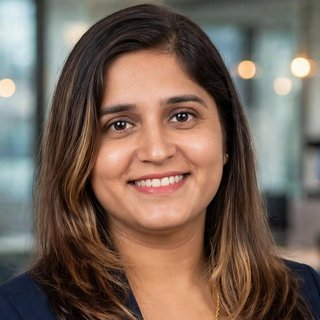
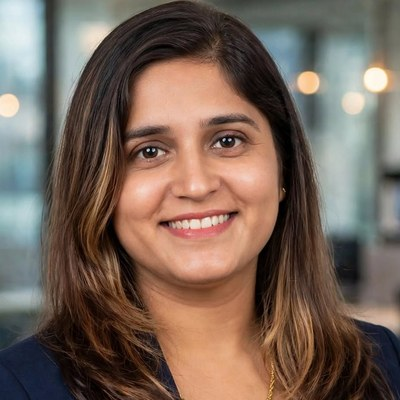
New owner photo; owner card moved to the top of the page
Claude-Session: https://claude.ai/code/session_01Kckg8nz4QzPxmztC6mHUwr

diff --git a/index.html b/index.html
@@ -100,6 +100,8 @@ details.why ol{margin:8px 0 0 18px;font-size:13px;line-height:1.55;color:#cfc9ea
 .im-plat{display:inline-block;background:var(--card2);border:1px solid var(--line);border-radius:999px;padding:3px 10px;font-size:12px;color:var(--mut)}
 .owner{display:flex;align-items:center;gap:16px;max-width:980px;margin:16px auto 0}
 .owner img{width:96px;height:96px;border-radius:50%;object-fit:cover;border:2px solid var(--gold);flex-shrink:0}
+.owner-top{width:fit-content;max-width:calc(100% - 24px);margin:14px auto 4px;padding:12px 22px 12px 12px;text-align:left}
+.owner-top img{width:72px;height:72px}
 .owner .sub{text-transform:uppercase;letter-spacing:.6px;font-size:11px}.oname{font-family:Cinzel,"Noto Sans Devanagari",serif;font-size:22px;color:var(--gold2)}
 .fgrid{display:grid;grid-template-columns:repeat(auto-fill,minmax(140px,1fr));gap:8px}
 .fcard{background:var(--card2);border:1px solid var(--line);border-radius:12px;padding:10px}
@@ -133,6 +135,10 @@ details.why ol{margin:8px 0 0 18px;font-size:13px;line-height:1.55;color:#cfc9ea
   <div class="printonly">Krishan Astrologer · krishanastrologer.netlify.app</div>
   <div class="logo" data-i="logo"></div>
   <div class="tag" data-i="tagline"></div>
+  <section class="card owner owner-top">
+  <img src="icons/owner.jpg?v=2" alt="Pallavi Gupta" width="96" height="96">
+  <div><div class="sub" data-i="ownerTitle"></div><div class="oname" data-i="ownerName"></div><div class="tag" style="margin:2px 0 0" data-i="ownerRole"></div></div>
+</section>
   <nav class="nav"><button data-view="home" data-i="navHome"></button><button data-view="ask" data-i="navAsk"></button><button data-view="future" data-i="navFuture"></button><button data-view="match" data-i="navMatch"></button><button data-view="daily" data-i="navDaily"></button><button data-view="dosh" data-i="navDosh"></button></nav>
 </header>
 <main>
@@ -239,10 +245,7 @@ details.why ol{margin:8px 0 0 18px;font-size:13px;line-height:1.55;color:#cfc9ea
 <section class="card"><h2 data-i="chooseRashi"></h2><p class="tag" style="text-align:left;margin:0 0 12px" data-i="rashiHint"></p><div class="rgrid" id="rgrid"></div><div class="reading" id="rashifal"></div></section>
 </div>
 
-<section class="card owner">
-  <img src="icons/owner.jpg" alt="Pallavi Gupta" width="96" height="96">
-  <div><div class="sub" data-i="ownerTitle"></div><div class="oname" data-i="ownerName"></div><div class="tag" style="margin:2px 0 0" data-i="ownerRole"></div></div>
-</section>
+
 <div class="modal hidden" id="installModal"><div class="im-body"></div></div>
 <p class="note"><span data-i="disclaimer"></span><br><a href="privacy.html" style="color:#a59fc7">Privacy Policy / गोपनीयता नीति</a> · <a href="terms.html" style="color:#a59fc7">Terms / नियम व शर्तें</a></p>
 </main>

diff --git a/sw.js b/sw.js
@@ -1,5 +1,5 @@
-const CACHE="krishan-v22";
-const FILES=["./","./index.html","./privacy.html","./terms.html","./manifest.webmanifest","./icons/icon-192.png","./icons/icon-512.png","./icons/apple-touch-icon.png","./icons/owner.jpg",
+const CACHE="krishan-v23";
+const FILES=["./","./index.html","./privacy.html","./terms.html","./manifest.webmanifest","./icons/icon-192.png","./icons/icon-512.png","./icons/apple-touch-icon.png","./icons/owner.jpg?v=2",
   "./js/kb.js","./js/engine.js","./js/install.js","./js/forecast.js","./js/extras.js","./js/vedic.js","./js/calendar.js","./js/muhurat.js","./js/cities.js","./data/books.json","./data/bphs.json","./data/phaladeepika.json"];
 self.addEventListener("install",e=>{e.waitUntil(caches.open(CACHE).then(c=>c.addAll(FILES)));self.skipWaiting();});
 self.addEventListener("activate",e=>{e.waitUntil(caches.keys().then(k=>Promise.all(k.filter(x=>x!==CACHE).map(x=>caches.delete(x)))));self.clients.claim();});
